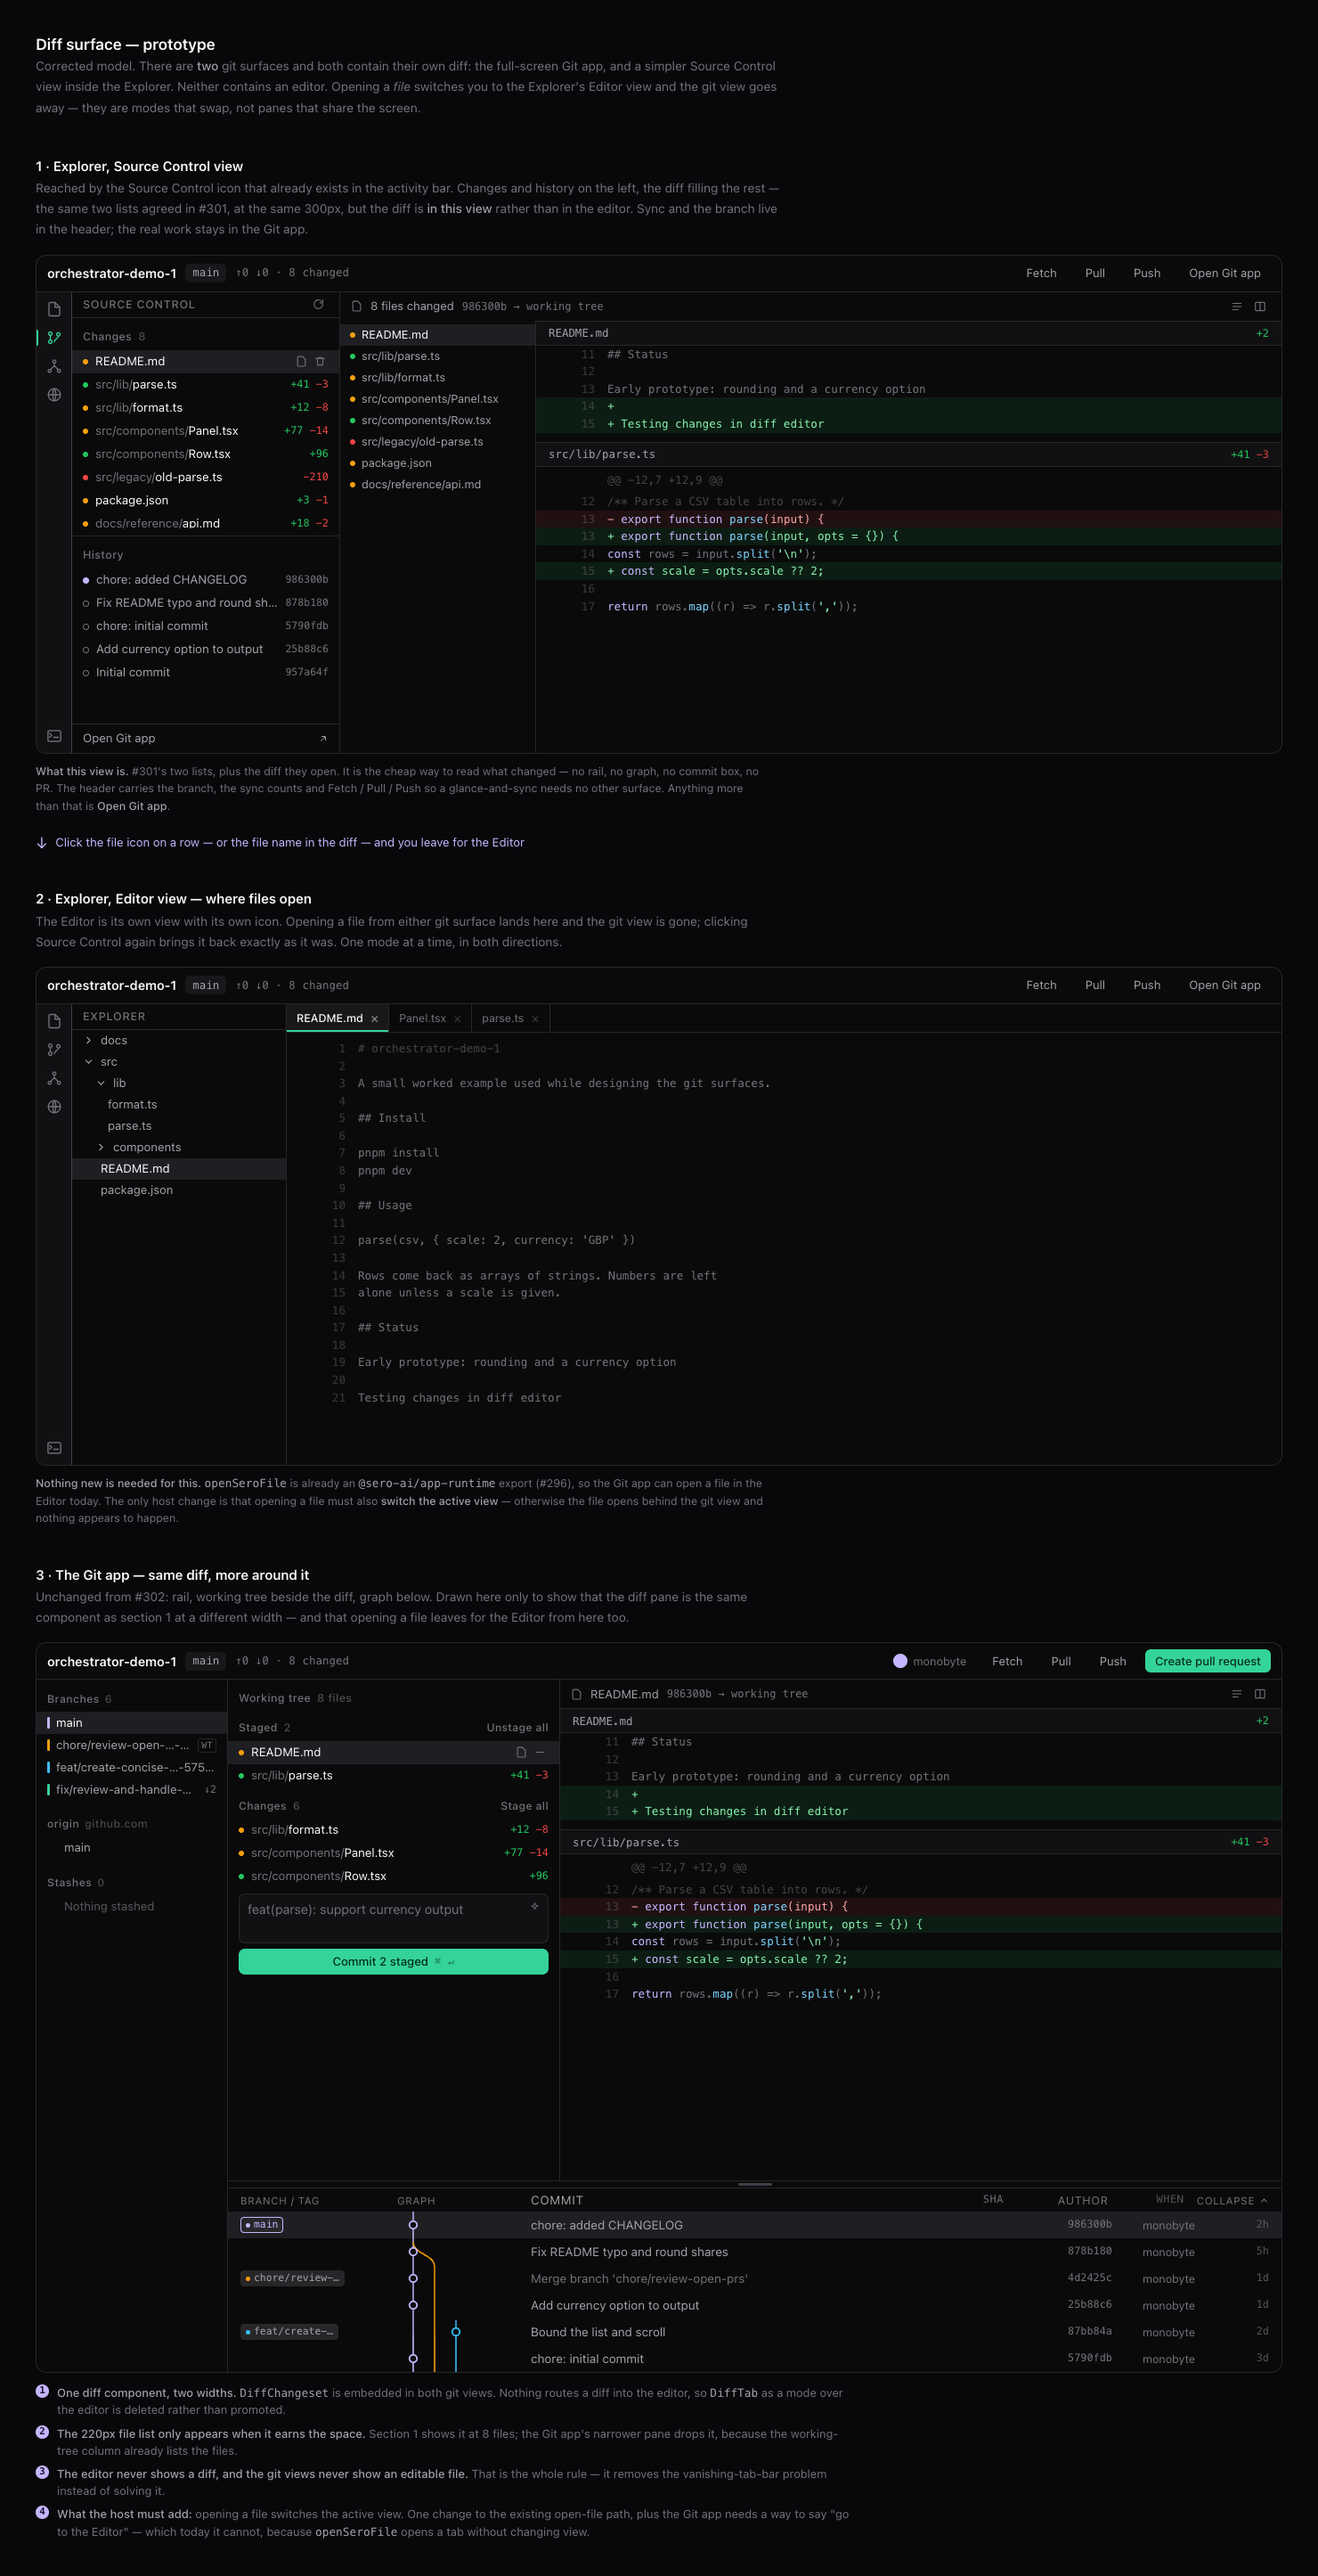
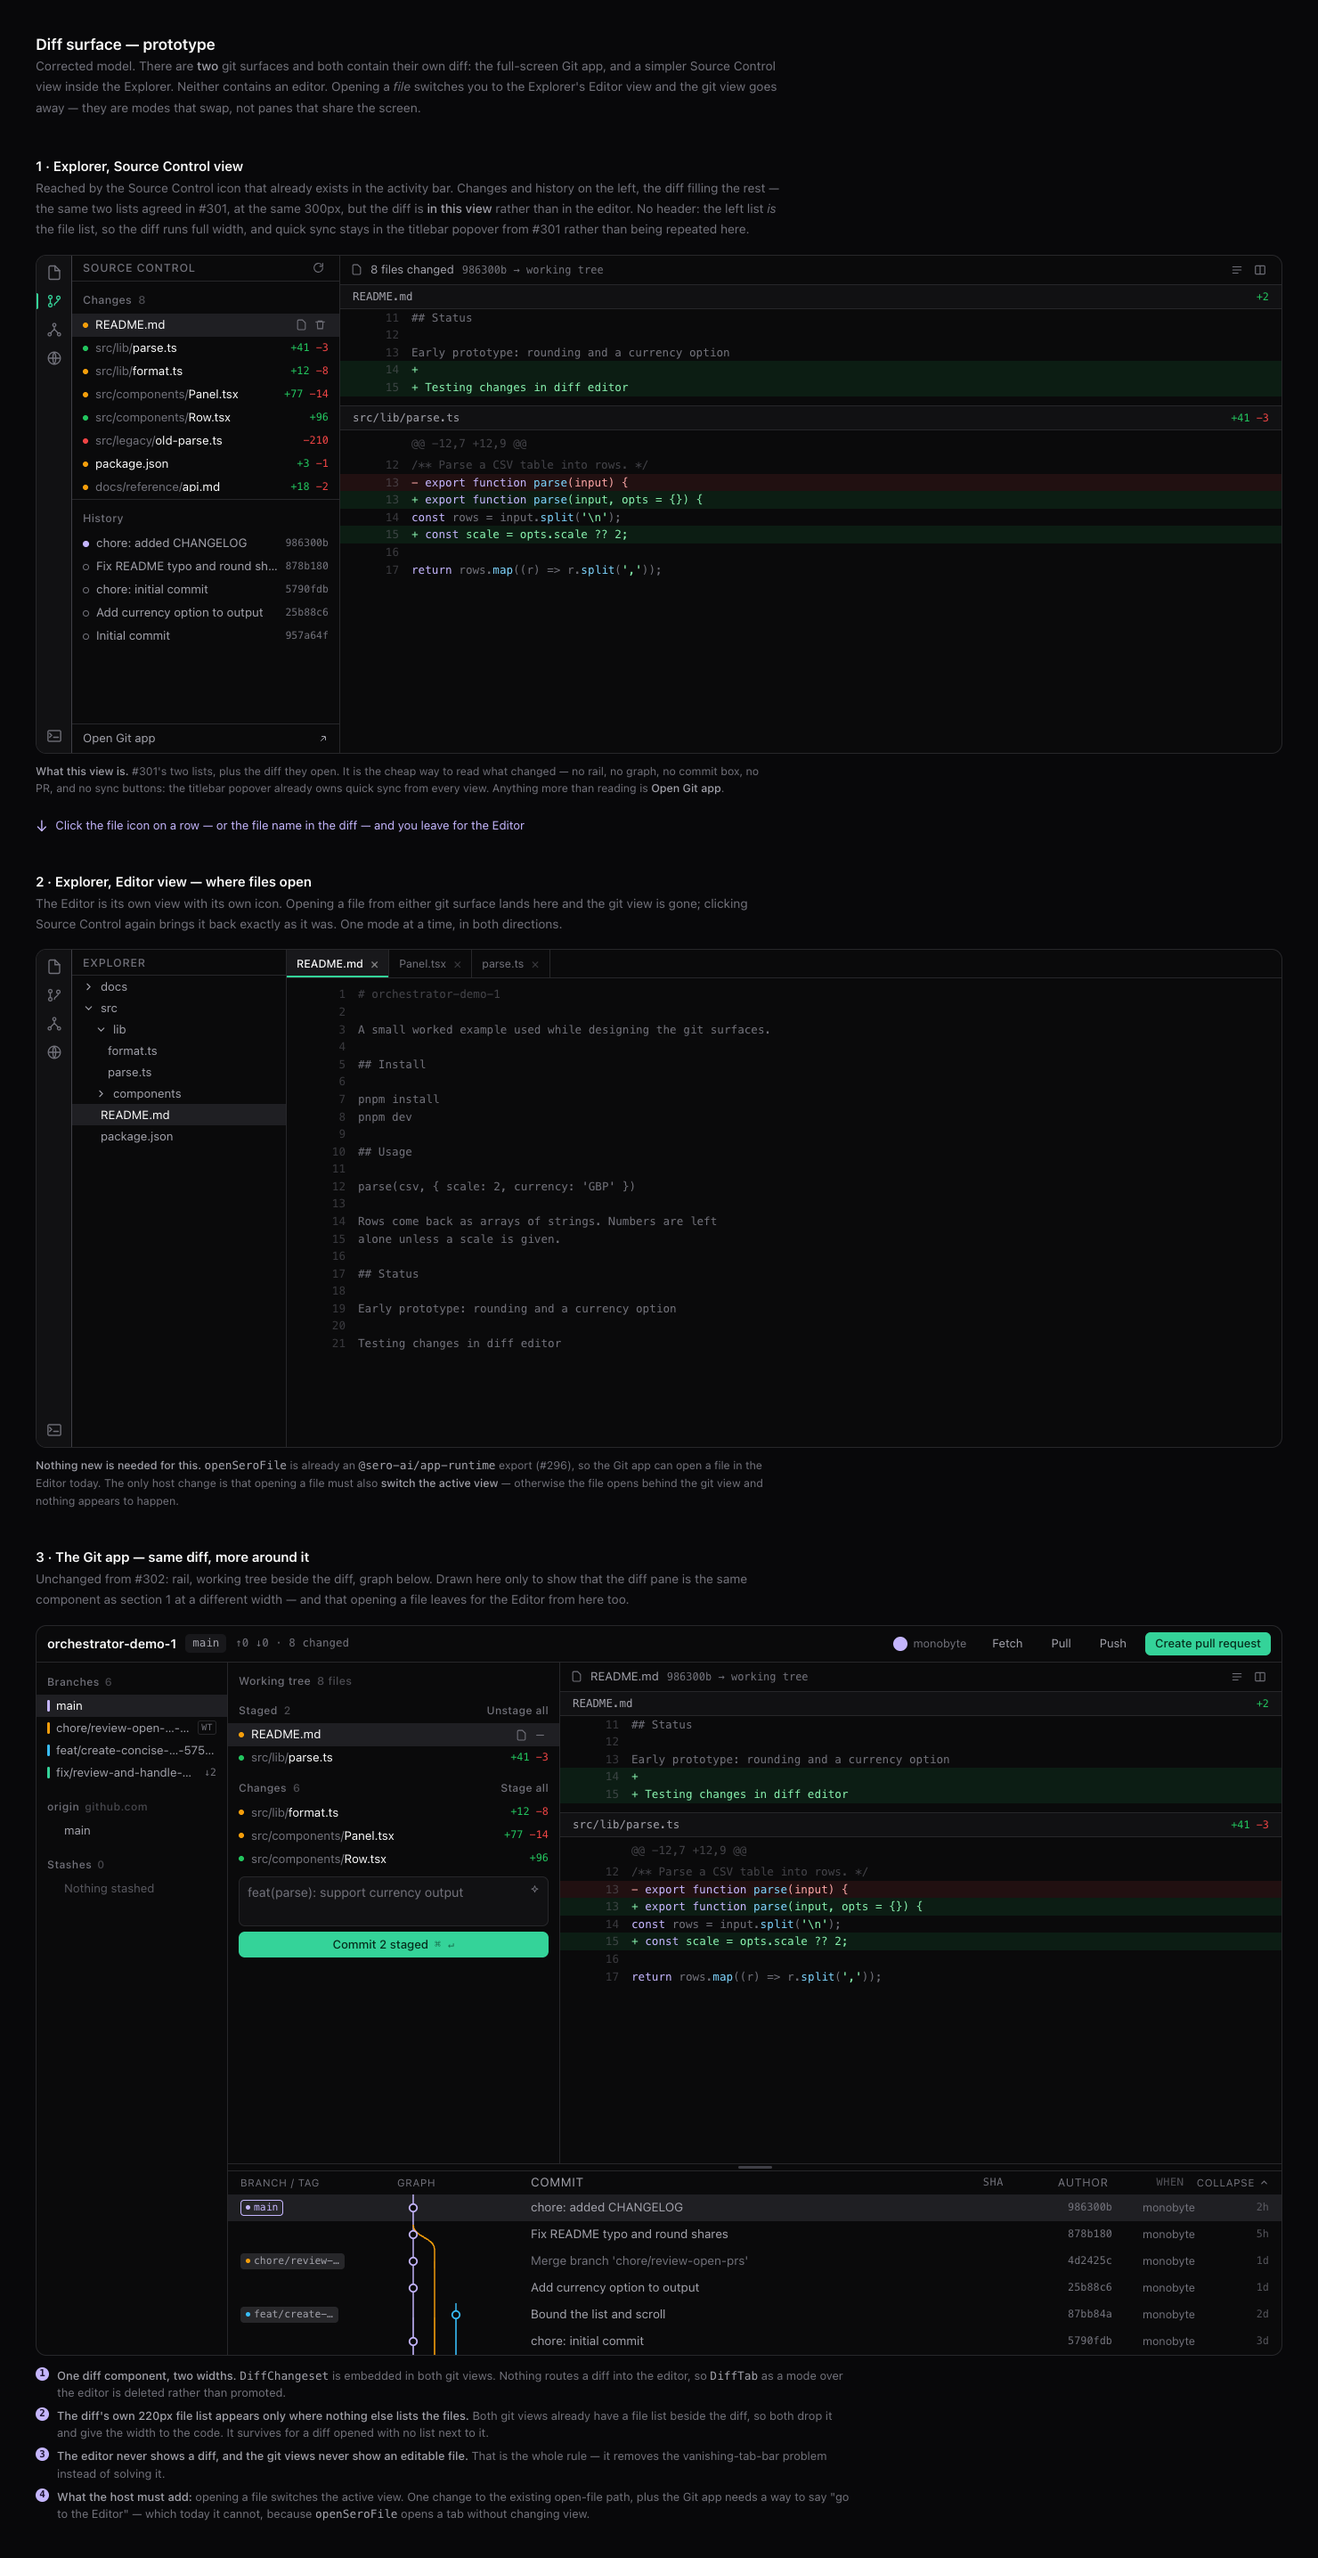
docs(prototype): drop the duplicate file list and the repeated sync header (#299)

diff --git a/docs/prototypes/git-ux/git-diff.html b/docs/prototypes/git-ux/git-diff.html
@@ -207,20 +207,10 @@ Explorer's Editor view and the git view goes away — they are modes that swap, 
 <p class="note">
 Reached by the Source Control icon that already exists in the activity bar. Changes and history on the left, the diff
 filling the rest — the same two lists agreed in #301, at the same 300px, but the diff is <b>in this view</b> rather
-than in the editor. Sync and the branch live in the header; the real work stays in the Git app.
+than in the editor. No header: the left list <i>is</i> the file list, so the diff runs full width, and quick sync stays
+in the titlebar popover from #301 rather than being repeated here.
 </p>
 <div class="app">
-  <div class="topbar">
-    <div class="repo">orchestrator-demo-1</div>
-    <span class="bchip">main</span>
-    <span class="sync">↑0 ↓0 · 8 changed</span>
-    <span style="flex:1"></span>
-    <span class="tb">Fetch</span>
-    <span class="tb">Pull</span>
-    <span class="tb">Push</span>
-    <span class="tb">Open Git app</span>
-  </div>
-  <div class="hair"></div>
   <div class="body">
     <div class="abar">
       <div class="aico" title="Explorer"><svg width="18" height="18" viewBox="0 0 24 24" fill="none" stroke="currentColor" stroke-width="1.8" stroke-linecap="round"><path d="M13 2H6a2 2 0 0 0-2 2v16a2 2 0 0 0 2 2h12a2 2 0 0 0 2-2V9z"/><path d="M13 2v7h7"/></svg></div>
@@ -271,18 +261,7 @@ than in the editor. Sync and the branch live in the header; the real work stays 
           <div class="ico" title="Unified diff"><svg width="14" height="14" viewBox="0 0 24 24" fill="none" stroke="currentColor" stroke-width="2"><rect x="3" y="4" width="18" height="16" rx="2"/><path d="M12 4v16"/></svg></div>
         </span>
       </div>
-      <div class="dsplit">
-        <div class="dnav scroller">
-          <div class="nrow on"><span class="dot m"></span><span class="nm">README.md</span></div>
-          <div class="nrow"><span class="dot a"></span><span class="nm">src/lib/parse.ts</span></div>
-          <div class="nrow"><span class="dot m"></span><span class="nm">src/lib/format.ts</span></div>
-          <div class="nrow"><span class="dot m"></span><span class="nm">src/components/Panel.tsx</span></div>
-          <div class="nrow"><span class="dot a"></span><span class="nm">src/components/Row.tsx</span></div>
-          <div class="nrow"><span class="dot d"></span><span class="nm">src/legacy/old-parse.ts</span></div>
-          <div class="nrow"><span class="dot m"></span><span class="nm">package.json</span></div>
-          <div class="nrow"><span class="dot m"></span><span class="nm">docs/reference/api.md</span></div>
-        </div>
-        <div class="dbody">
+      <div class="dbody">
           <div class="fh">README.md <span class="s"><span class="p">+2</span></span></div>
           <div class="dl"><span class="ln">11</span><span class="tx">## Status</span></div>
           <div class="dl"><span class="ln">12</span><span class="tx"></span></div>
@@ -298,15 +277,14 @@ than in the editor. Sync and the branch live in the header; the real work stays 
           <div class="dl add"><span class="ln">15</span><span class="tx">+ <span class="kw">const</span> scale = opts.scale ?? <span class="str">2</span>;</span></div>
           <div class="dl"><span class="ln">16</span><span class="tx"></span></div>
           <div class="dl"><span class="ln">17</span><span class="tx">  <span class="kw">return</span> rows.<span class="fnn">map</span>((r) => r.<span class="fnn">split</span>(<span class="str">','</span>));</span></div>
-        </div>
       </div>
     </div>
   </div>
 </div>
 <p class="spec" style="max-width:104ch">
 <b>What this view is.</b> #301's two lists, plus the diff they open. It is the cheap way to read what changed —
-no rail, no graph, no commit box, no PR. The header carries the branch, the sync counts and Fetch / Pull / Push so a
-glance-and-sync needs no other surface. Anything more than that is <b>Open Git app</b>.
+no rail, no graph, no commit box, no PR, and no sync buttons: the titlebar popover already owns quick sync from every
+view. Anything more than reading is <b>Open Git app</b>.
 </p>
 
 <div class="arrow"><i>↓</i> Click the file icon on a row — or the file name in the diff — and you leave for the Editor</div>
@@ -318,17 +296,6 @@ The Editor is its own view with its own icon. Opening a file from either git sur
 gone; clicking Source Control again brings it back exactly as it was. One mode at a time, in both directions.
 </p>
 <div class="app">
-  <div class="topbar">
-    <div class="repo">orchestrator-demo-1</div>
-    <span class="bchip">main</span>
-    <span class="sync">↑0 ↓0 · 8 changed</span>
-    <span style="flex:1"></span>
-    <span class="tb">Fetch</span>
-    <span class="tb">Pull</span>
-    <span class="tb">Push</span>
-    <span class="tb">Open Git app</span>
-  </div>
-  <div class="hair"></div>
   <div class="body">
     <div class="abar">
       <div class="aico" title="Explorer"><svg width="18" height="18" viewBox="0 0 24 24" fill="none" stroke="currentColor" stroke-width="1.8" stroke-linecap="round"><path d="M13 2H6a2 2 0 0 0-2 2v16a2 2 0 0 0 2 2h12a2 2 0 0 0 2-2V9z"/><path d="M13 2v7h7"/></svg></div>
@@ -513,7 +480,7 @@ the same component as section 1 at a different width — and that opening a file
 
 <div class="legend">
   <div><span class="mark">1</span><span><b>One diff component, two widths.</b> <code>DiffChangeset</code> is embedded in both git views. Nothing routes a diff into the editor, so <code>DiffTab</code> as a mode over the editor is deleted rather than promoted.</span></div>
-  <div><span class="mark">2</span><span><b>The 220px file list only appears when it earns the space.</b> Section 1 shows it at 8 files; the Git app's narrower pane drops it, because the working-tree column already lists the files.</span></div>
+  <div><span class="mark">2</span><span><b>The diff's own 220px file list appears only where nothing else lists the files.</b> Both git views already have a file list beside the diff, so both drop it and give the width to the code. It survives for a diff opened with no list next to it.</span></div>
   <div><span class="mark">3</span><span><b>The editor never shows a diff, and the git views never show an editable file.</b> That is the whole rule — it removes the vanishing-tab-bar problem instead of solving it.</span></div>
   <div><span class="mark">4</span><span><b>What the host must add:</b> opening a file switches the active view. One change to the existing open-file path, plus the Git app needs a way to say "go to the Editor" — which today it cannot, because <code>openSeroFile</code> opens a tab without changing view.</span></div>
 </div>
